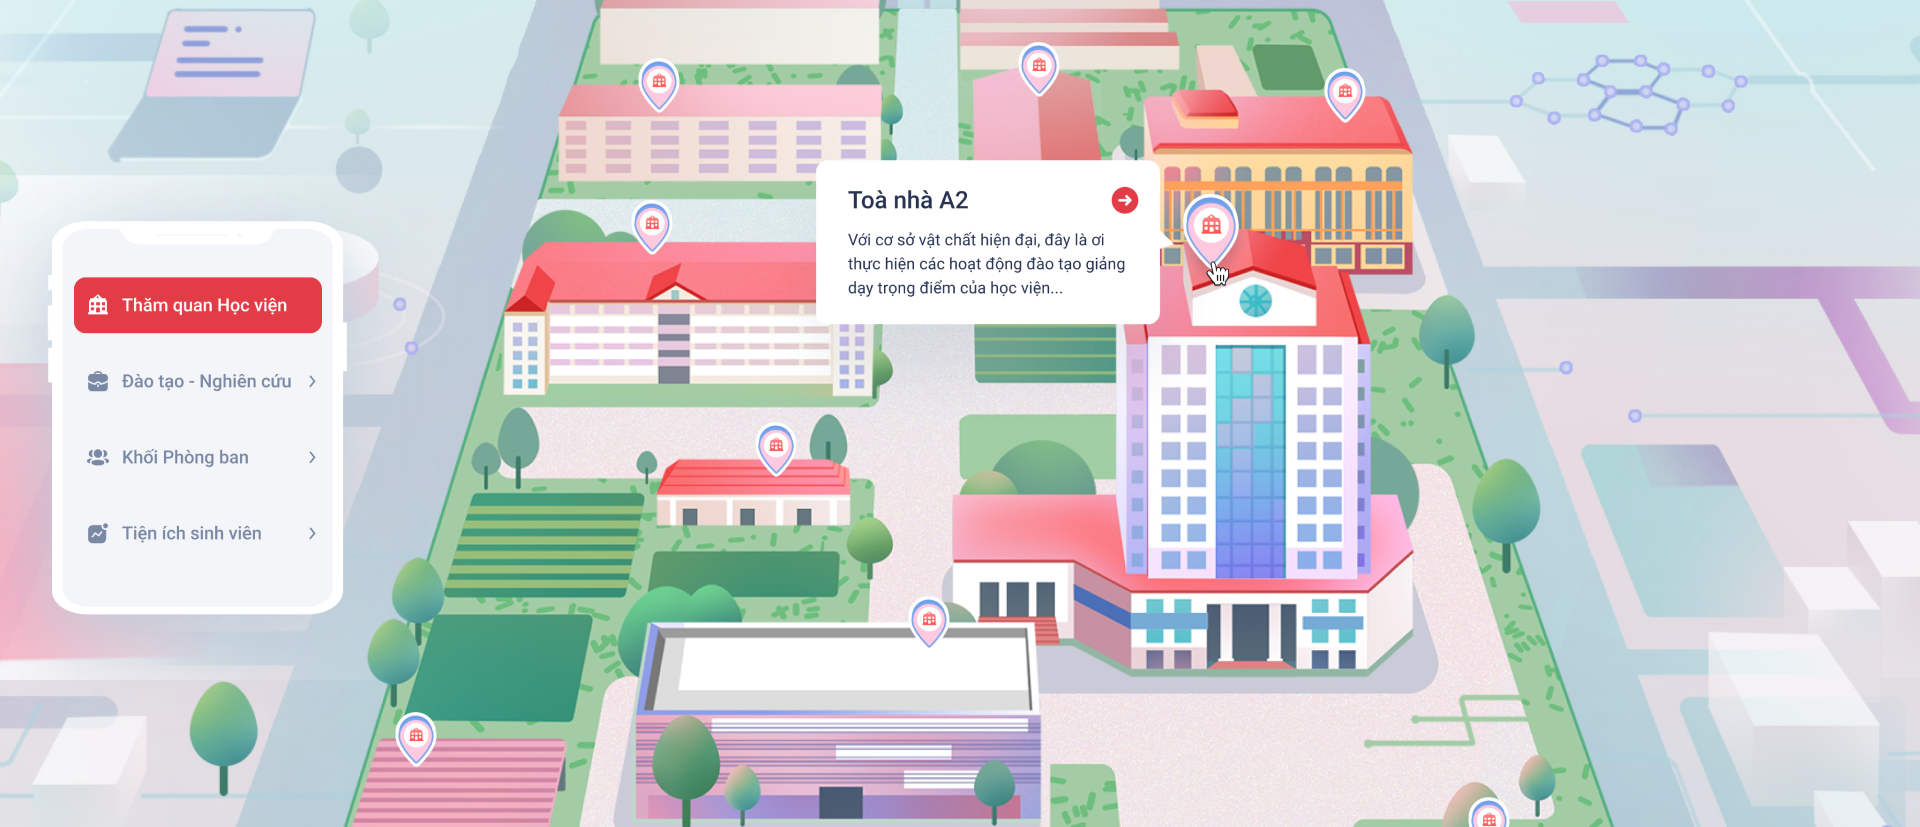
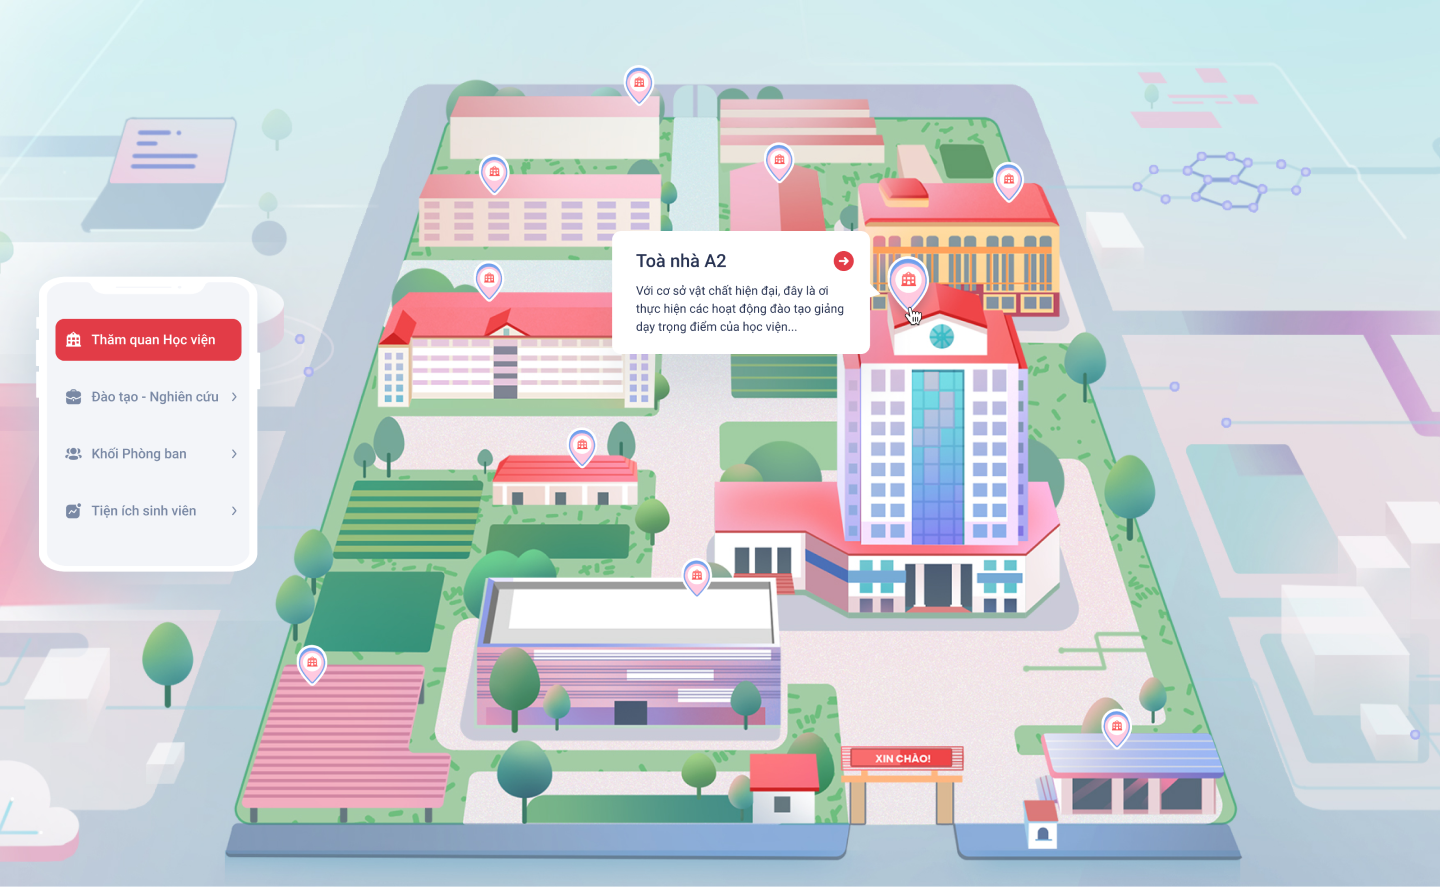
update

diff --git a/style.css b/style.css
@@ -9,6 +9,7 @@ body{
     width: 100vw;
     margin: 0;
     padding: 0;
+    overflow: hidden;
 }
 .header{
     margin: 0;
@@ -59,6 +60,9 @@ body{
 .homebg_image{
     width: 100vw;
     margin: 0;
+    background-image: url('/images/homebg.png');
+    min-height: 886px;
+    background-size: 100% 100%;
 }
 .title_header1{
     font-style: normal;
@@ -116,18 +120,21 @@ body{
     text-align: justify;
 }
 .feature{
-    margin-top: 180px;
     width: 100vw;    
-    height: 580px;
+    background-image: url("/images/bg_feature1.png");
+    height: 740px;
+    background-position: center;
+    background-repeat: no-repeat;
+    background-size: cover;
 }
 .feature_image{
     position: absolute;
     width: 100vw;
-    height: 580px;
+    min-height: 740px;
 }
 .feature_container{
     position: absolute;
-    margin-top: 92px;
+    margin-top: 252px;
     margin-left: 124px;
 }
 .feature_title{
@@ -232,6 +239,12 @@ body{
 .footer_description{
     color:#767676;
 }
+.footer_description_mobile{
+    color:#767676;
+    display: none;
+    font-size: 0.625rem;
+}
+
 @media screen and (min-width: 1441px) {
     .container{
         width: calc(100% - 328px);
@@ -241,4 +254,159 @@ body{
     .feature_container{
         margin-left: 164px;
     }
+    .feature{
+        width: 100vw;    
+        background-image: url("/images/bg_feature2.png");
+        background-position: center;
+        background-repeat: no-repeat;
+        background-size: cover;
+    }
+    .homebg_image{
+        background-image: url("/images/homebg1.png");
+        background-size:100% auto;
+        overflow: hidden;
+    }
 }
+
+@media only screen and (max-width: 768px) {
+    /* For mobile phones: */
+    .header{
+        height: 68px;
+        overflow-y: hidden;
+    }
+    .header_nav{
+        margin:13px 0;
+    }
+    .header_nav_menu{
+        display: none;
+    }
+    .header_logo_image{
+        width: 64px;
+        margin-left: 16px;
+    }
+    .title{
+        margin-top: 56px;
+        height: 148px;
+    }
+    .title_header1{
+        font-size: 1.5rem;
+        line-height: 1.875rem;
+    }
+    .title_header2{
+        font-size: 1rem;
+    }
+    .homebg{
+        height: 400px;
+        overflow: hidden;
+    }
+    .homebg_image{
+        background-image: url("/images/homebg_mobile.png");
+        background-size:100% auto;
+        background-repeat: no-repeat;
+    }
+    .section2_title{
+        font-size: 1.5rem;
+        line-height: 1.875rem;
+        margin-top: 60px;
+    }
+    .container{
+        margin: 0px 36px 0 36px;
+        width: calc(100% - 72px);
+    }
+    .container_column{
+        display: block;
+    }
+    .column_image{
+        margin-top: 40px;
+        width: 50px;
+        height: auto;
+    }
+    .column_title{
+        margin-top: 16px;
+        font-size: 1.125rem;
+        line-height: 1.4375rem;
+    }
+    .column_description{
+        margin-top: 10px;
+        font-size: 1rem;
+        line-height: 1.25rem;
+    }
+    .feature{
+        margin-top: 36px;
+        width: 100vw;    
+        background-image: url("/images/bg_feature_mobile.png");
+        height: 400px;
+        background-position: center;
+        background-repeat: no-repeat;
+        background-size: 100vw auto;
+    }
+    .feature_container{
+        text-align: center;
+        margin-left: 0;
+    }
+    .feature_title{
+        font-size: 1.5rem;
+        line-height: 1.875rem;
+    }
+    .feature_description{
+        font-size: 1rem;
+        line-height: 1.5rem;
+        text-align: center;
+        margin-left: 34px;
+        margin-right: 34px;
+        width: calc(100% - 68px);    
+    }
+    .feature_mobile_title{
+        font-size: 1.5rem;
+        line-height: 1.875rem;
+    }
+    .feature_mobile_description{
+        font-size: 1rem;
+        line-height: 1.25rem;
+        margin-left: 32px;
+        margin-right: 32px;
+        width: calc(100% - 64px);
+        margin-top: 8px;
+        margin-bottom: 16px;
+    }
+    .video_container{
+        margin-top: 28px;
+        margin-left: 32px;
+        margin-right: 32px;
+        width: calc(100% - 64px);
+    }
+    .joinnow{
+        margin-top: 16px;
+        height: 72px;
+    }
+    .joinnow_title{
+        font-size: 1rem;
+        line-height: 1.25rem;
+    }
+    .joinnow_container {
+        width: calc(100% - 32px);
+        display: flex;
+        align-items: center;
+        height: 72px;
+        margin-left: 16px;
+        justify-content: space-between;
+    }
+    .btn_next_image{
+        width: 32px;
+        height: auto;
+    }
+    .end_line{
+        margin-top: 64px;
+    }
+    .footer_container{
+        display: block;
+        text-align: center;
+        margin-bottom: 48px;
+    }
+    .footer_description{
+        display: none;
+    }
+    .footer_description_mobile{
+        display: block;
+    }
+  }

diff --git a/index.html b/index.html
@@ -28,7 +28,8 @@
         </div>
     </div>
     <div class="homebg">
-        <img class="homebg_image" src="./images/homebg.png" alt="">
+        <div class="homebg_image">
+        </div>
     </div>
     <div class="section2">
         <div class="section2_title">
@@ -69,7 +70,8 @@
         </div>  
     </div>
     <div class="feature">
-        <img src="/images/bg_feature1.png" alt="" class="feature_image">
+        <div class="feature_image">
+        </div>
          <div class="feature_container">
              <div class="feature_title">
                  Không còn bỡ ngỡ khi tìm<br>
@@ -78,10 +80,6 @@
                 Chúng tôi thấu hiểu rằng xác định vị trí phòng ban trong một toà nhà quả thực là một điều khó khăn. Vì vậy, việc xây dựng các hình minh hoạ 3D mô phỏng vị trí các phòng ban sẽ giúp người dùng dễ dàng tìm kiếm địa điểm hơn.
              </div>
          </div>
-         <div class="building">
-            <img src="/images/building.png" alt="" class="building_image">
-             
-        </div>
     </div>
     <div class="feature_mobile">
         <div class="feature_mobile_title">
@@ -108,7 +106,7 @@
                     Tham quan sản phẩm<br> của chúng tôi
                 </div>
                 <div class="btn_next">
-                    <img src="/images/btn_next.svg" alt="">
+                    <img class="btn_next_image" src="/images/btn_next.svg" alt="">
                 </div>
             </div>
         </div>
@@ -120,6 +118,10 @@
                 </div>
                 <div class="footer_description">
                     Một sản phẩm của Học viện Công nghệ Bưu chính Viễn thông (Miền Bắc)<br>
+                    Km 10, Nguyễn Trãi, Hà Đông, Hà Nội
+                </div>
+                <div class="footer_description_mobile">
+                    Một sản phẩm của<br> Học viện Công nghệ Bưu chính Viễn thông (Miền Bắc)<br>
                     Km 10, Nguyễn Trãi, Hà Đông, Hà Nội
                 </div>
             </div>
